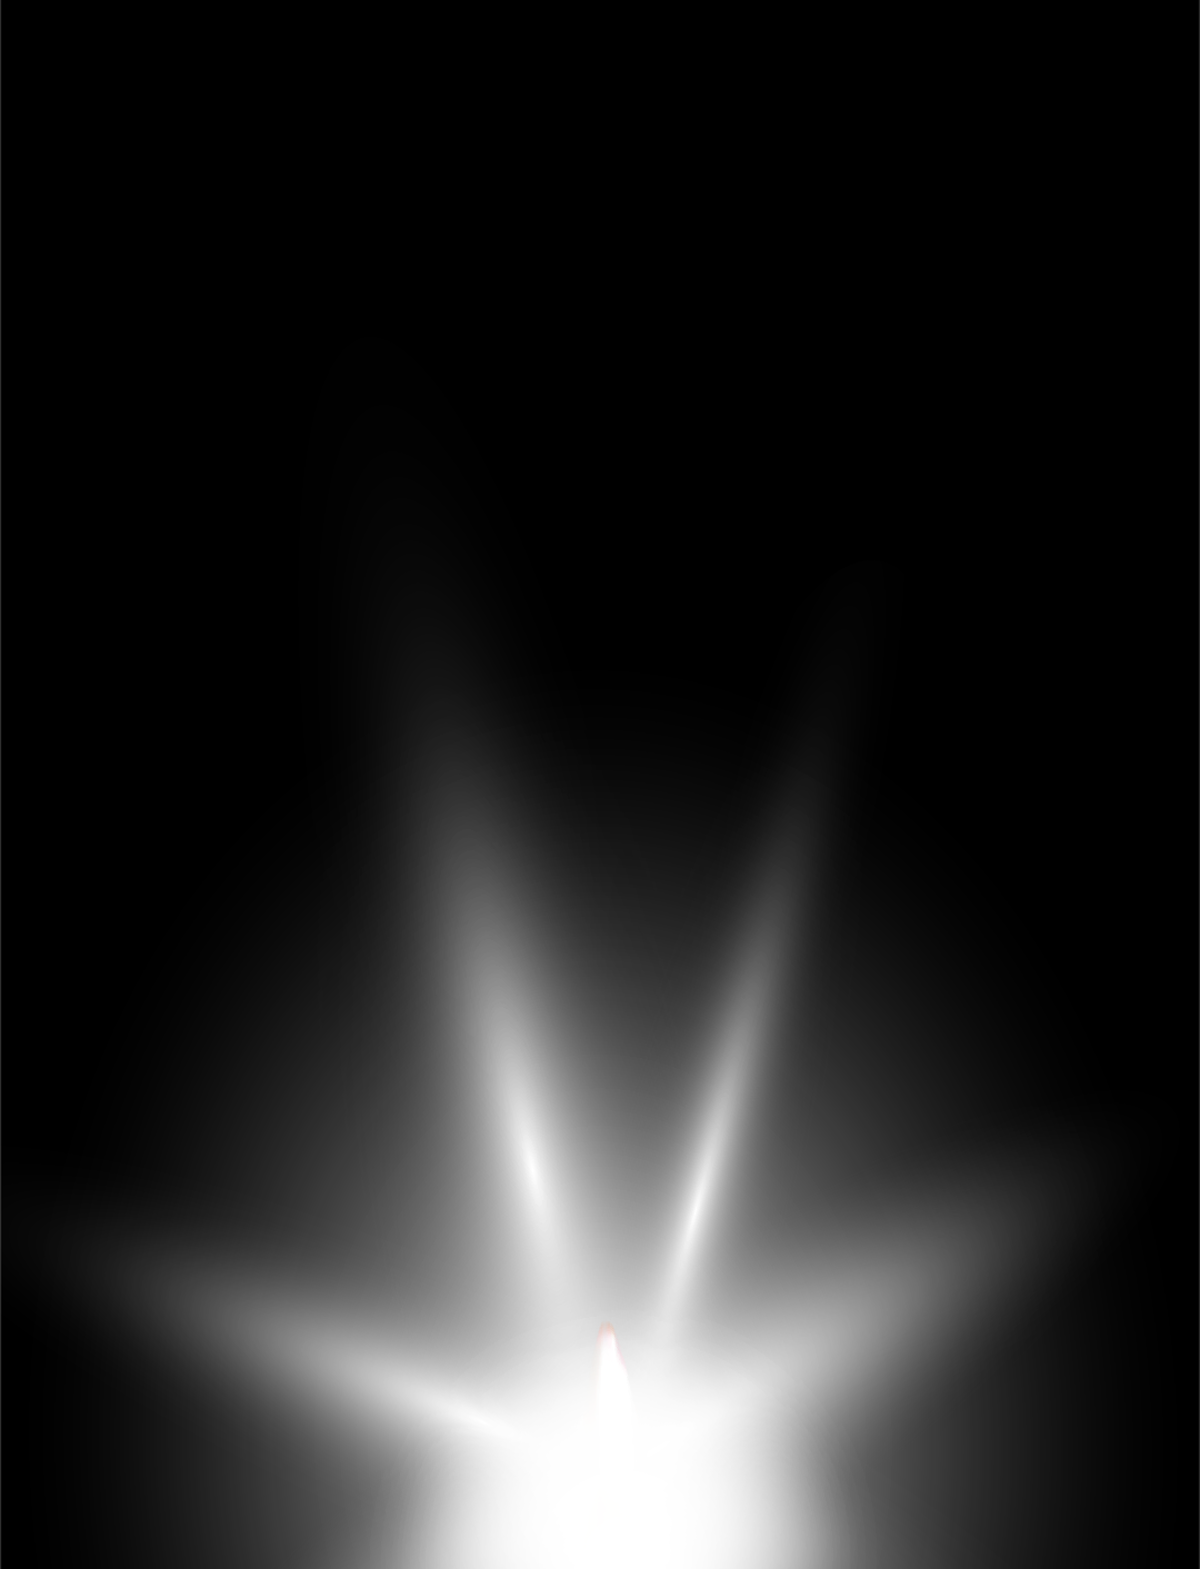
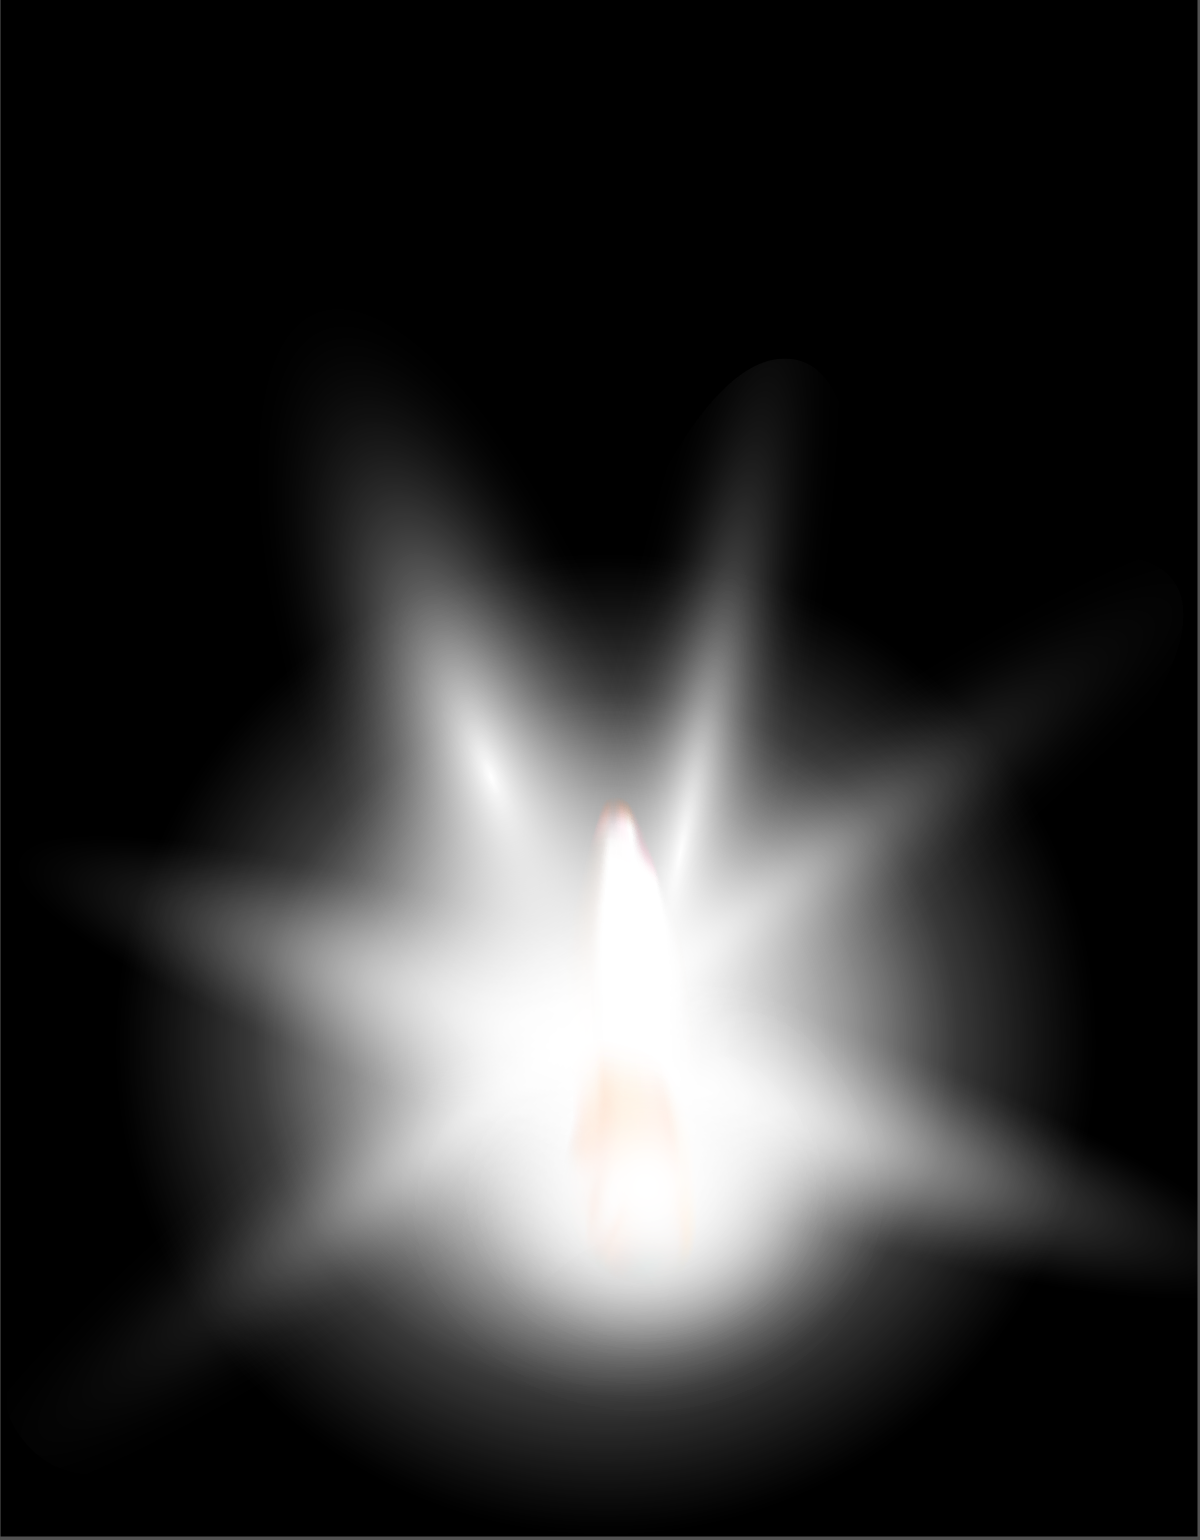
[Server] 1. Change light image 2. Hide panel when delete content

diff --git a/Drawin_Server/Assets/Scripts/Server.cs b/Drawin_Server/Assets/Scripts/Server.cs
@@ -307,6 +307,7 @@ public class Server : MonoBehaviour {
             {
                 print(e.Message);
             }
+            imgPlane1.SetActive(false);
             removeImg1 = false;
         }
 
